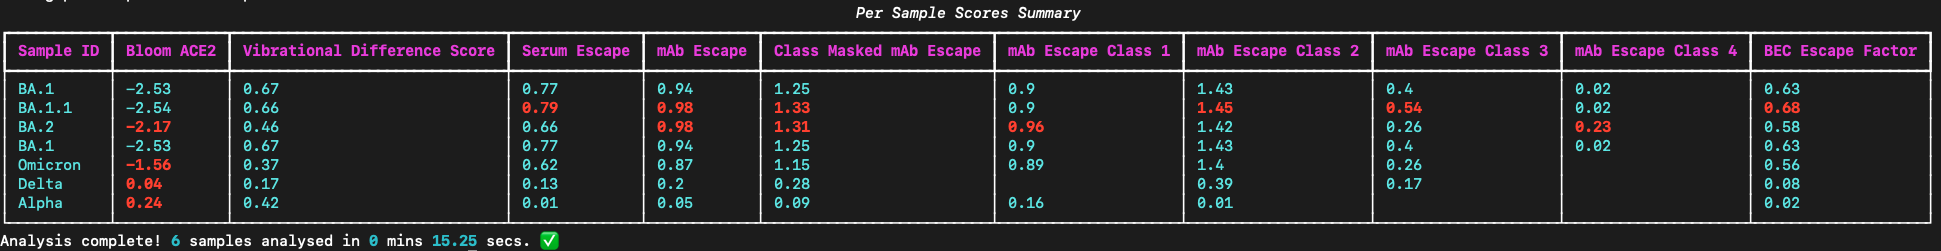
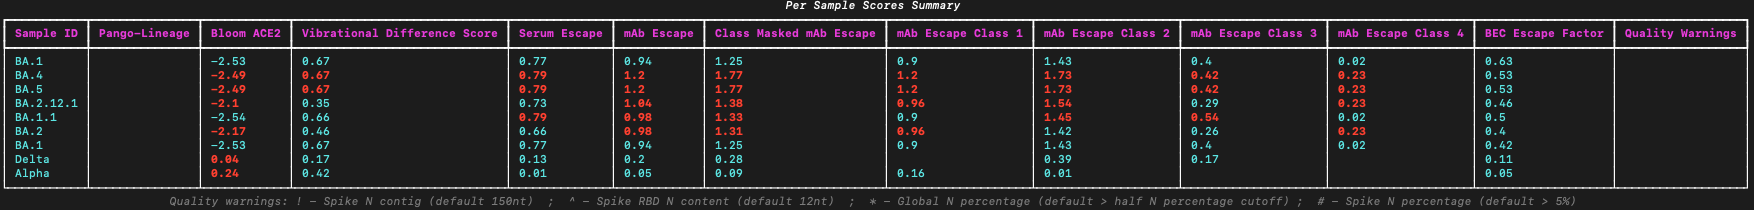
updated table to include new lineages

Changed region(s): [[0.0, 0.0, 1.0, 1.0], [0.3387, 0.9429, 0.8928, 1.0], [0.7389, 0.6857, 0.8005, 0.7143]]

diff --git a/README.md b/README.md
@@ -4,7 +4,7 @@
 SPEAR Reports is a repository of reports produced from the Systematic ProtEin AnnotatoR (SPEAR) tool for lineages and genomes of interest. It also contains a log of the current lineages supplied in SPEAR as a baseline file. This repo is also viewable as a GitHub pages site [here](https://m-crown.github.io/SPEAR-Reports).
 
 ## Demo Report
-An example SPEAR report for the demo data distributed within SPEAR (currently lineages Alpha, Delta, Omicron, BA.1, BA.1.1 and BA.2) can be found [here](https://m-crown.github.io/SPEAR-Reports/spear_reports/example_vcfs/report.html). 
+An example SPEAR report for the demo data distributed within SPEAR (currently lineages Alpha, Delta, BA.1, BA.1.1, BA.2, BA.2.12.1, BA.4, BA.5) can be found [here](https://m-crown.github.io/SPEAR-Reports/spear_reports/example_vcfs/report.html). 
   
 ## SPEAR Report Format
 
